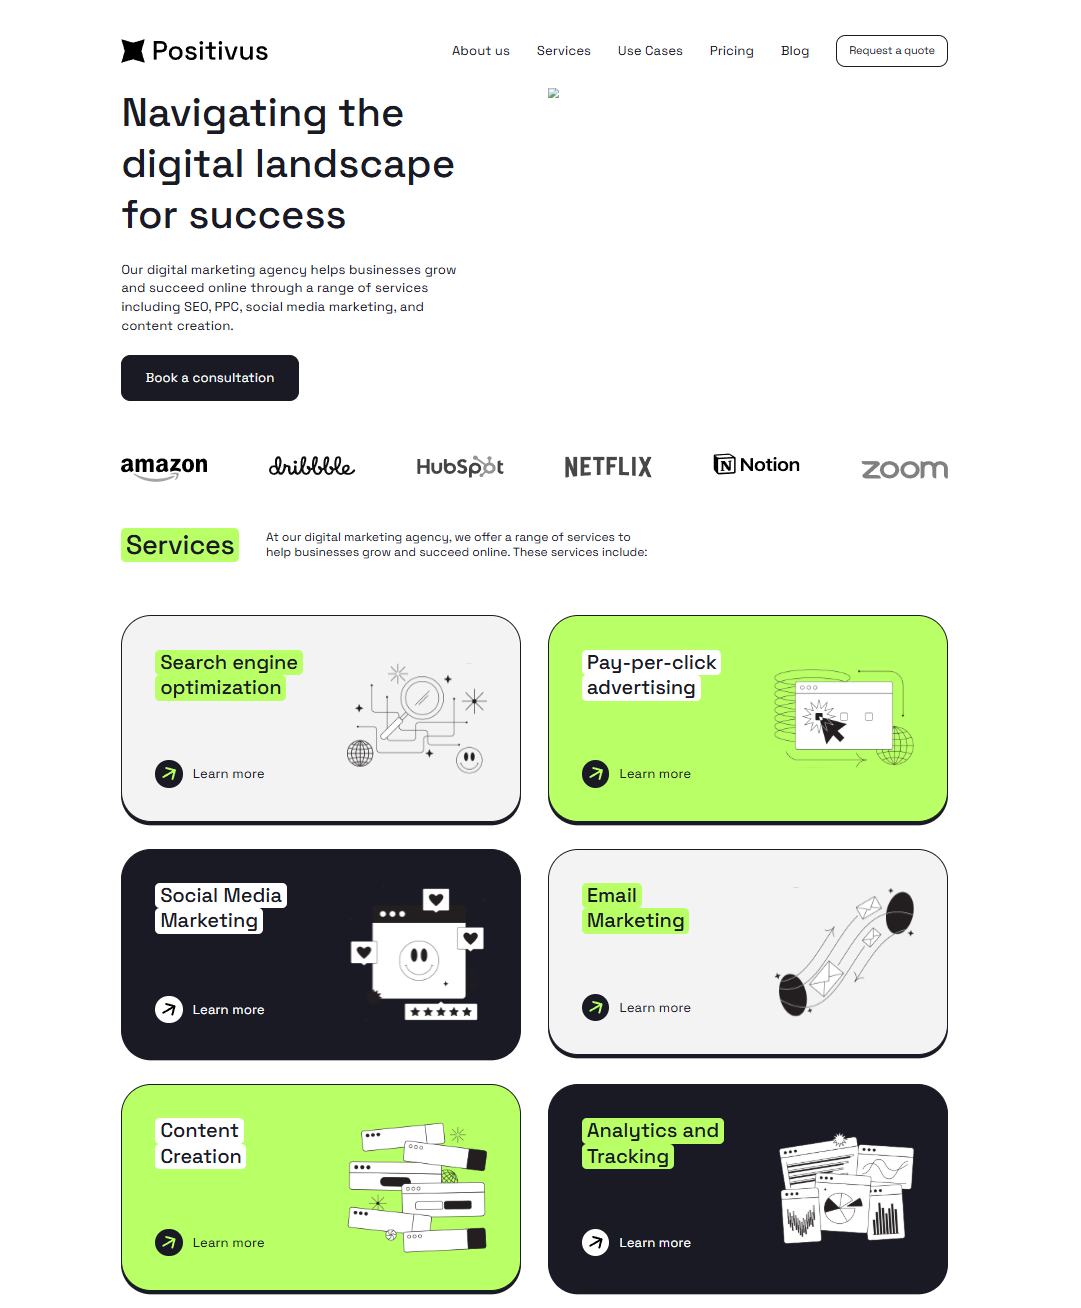
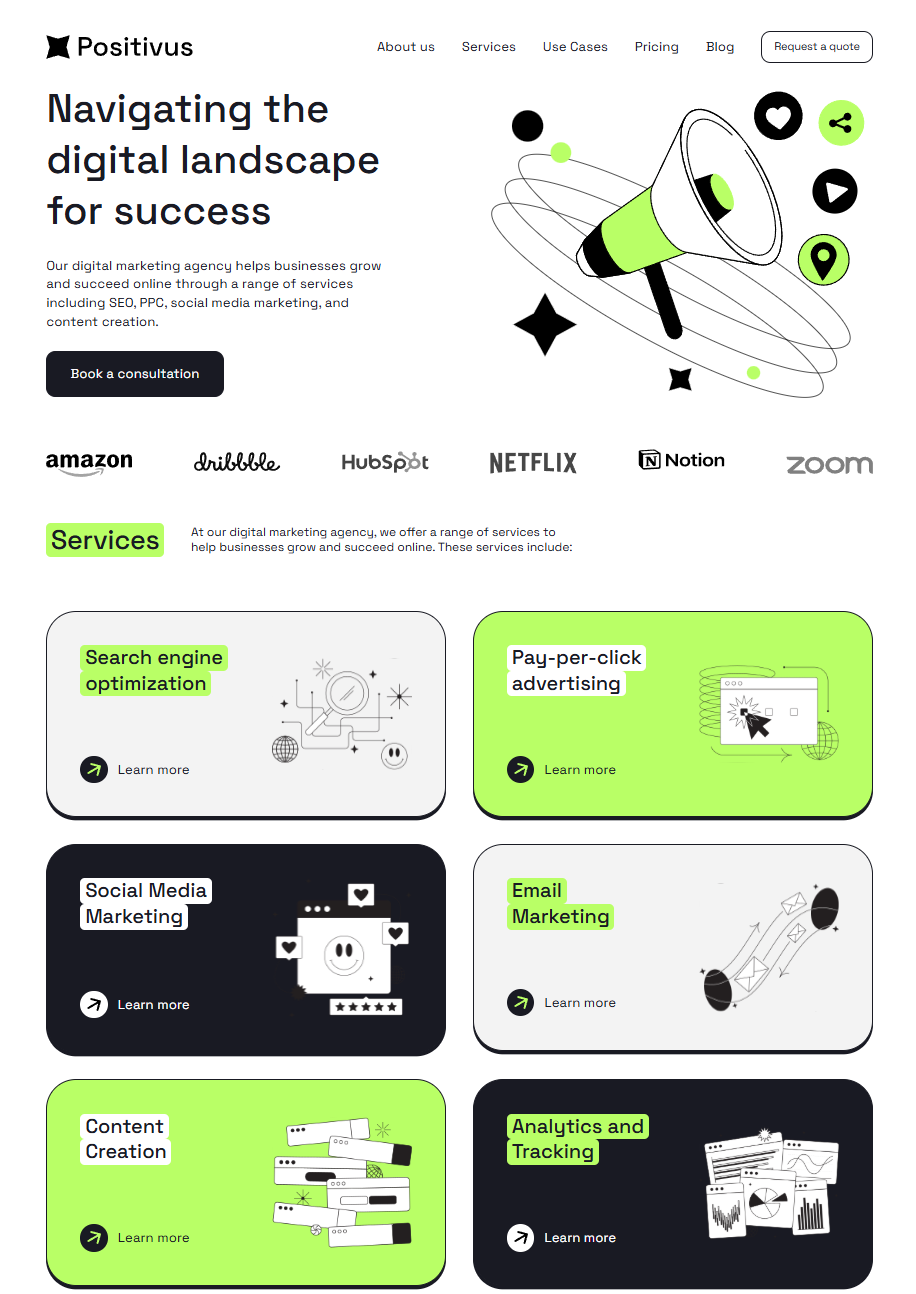
v5

diff --git a/index.html b/index.html
@@ -75,7 +75,7 @@
               </button>
             </div>
 
-            <img src="/images/hero-bg.svg" alt="image" class="hero__image" width="600" height="515" loading="lazy" />
+            <img src="./images/hero-bg.svg" alt="image" class="hero__image" width="600" height="515" loading="lazy" />
           </div>
 
           <div class="hero__partners">
